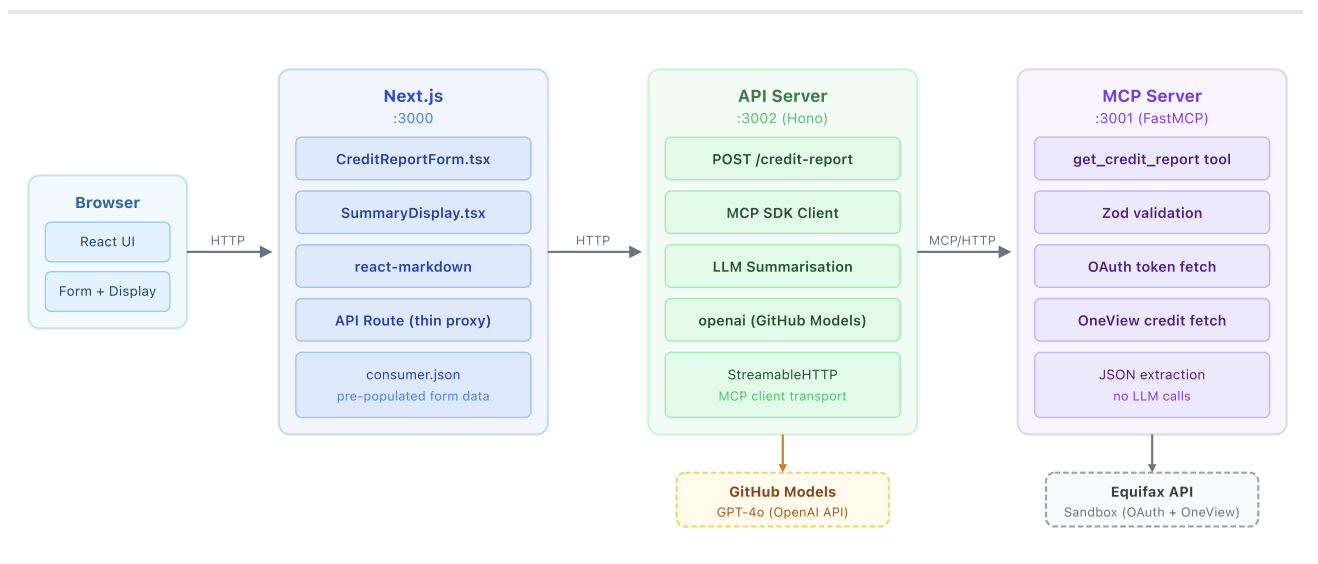
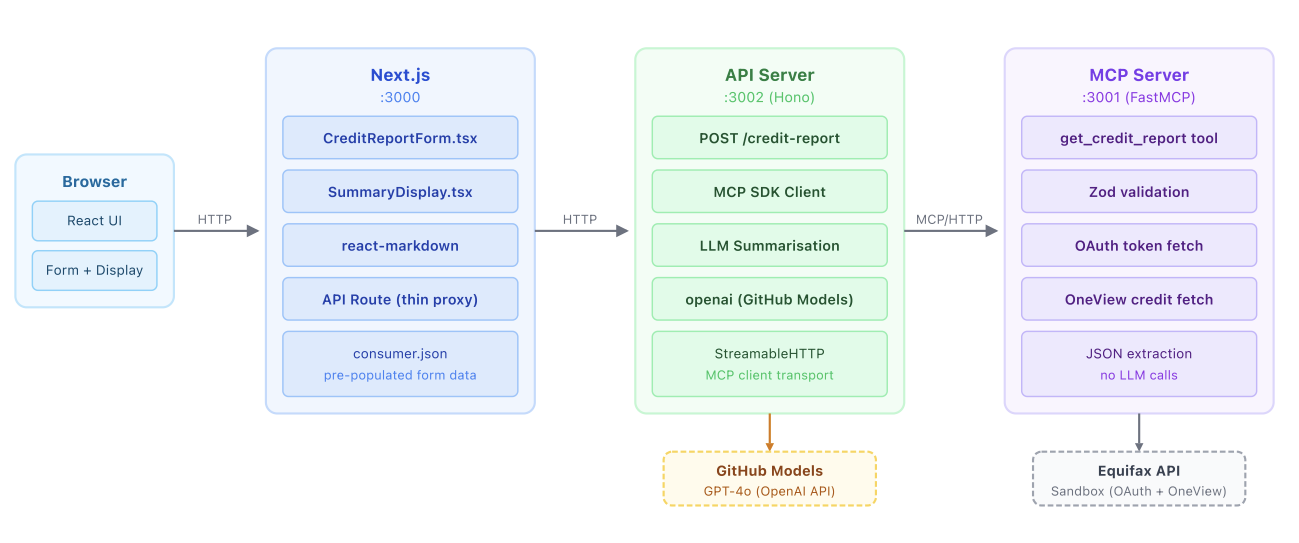
updated arch diagram

diff --git a/README.md b/README.md
@@ -18,24 +18,26 @@ It features a three-process TypeScript application that fetches a consumer credi
 
 The full architecture is documented in [`docs/architecture.pdf`](./docs/architecture.pdf).
 
+### Services
+
 | Process | Port | Role |
 |---------|------|------|
 | **Next.js** | 3000 | React UI + thin HTTP proxy |
 | **API Server** (Hono) | 3002 | MCP client + LLM summarisation |
 | **MCP Server** (FastMCP) | 3001 | Equifax data fetching only |
 
-### Next.js — Presentation layer
+#### Next.js — Presentation layer
 - Serves the React UI — a pre-populated consumer form read from `consumer.json`
 - Handles form state and submits to `/api/credit-report`
 - Renders the LLM's markdown response as styled HTML via `react-markdown`
 - The API route (`POST /api/credit-report`) is a **thin proxy** — it forwards the request to the API server and returns the response with no business logic
 
-### API Server — Business logic layer
+#### API Server — Business logic layer
 - Built with **Hono** on Node.js
 - Connects to the MCP server via `StreamableHTTPClientTransport`, calls the `get_credit_report` tool, parses the JSON result, then calls an LLM to produce a plain-English summary
 - All MCP client code and LLM interaction lives here
 
-### MCP Server — Data layer
+#### MCP Server — Data layer
 - Built with **FastMCP** using the Streamable HTTP transport (`/mcp` on port 3001)
 - Exposes one tool: `get_credit_report` — validates consumer fields with Zod, fetches an OAuth token from Equifax, posts the OneView credit request, extracts key fields, and returns raw JSON
 - No LLM calls — purely a data-fetching layer
